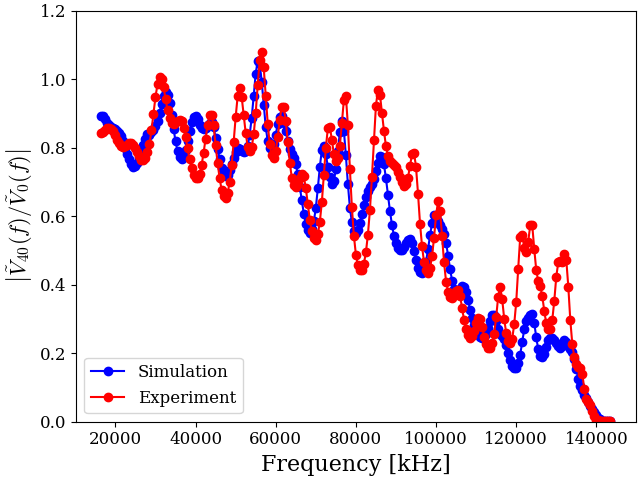
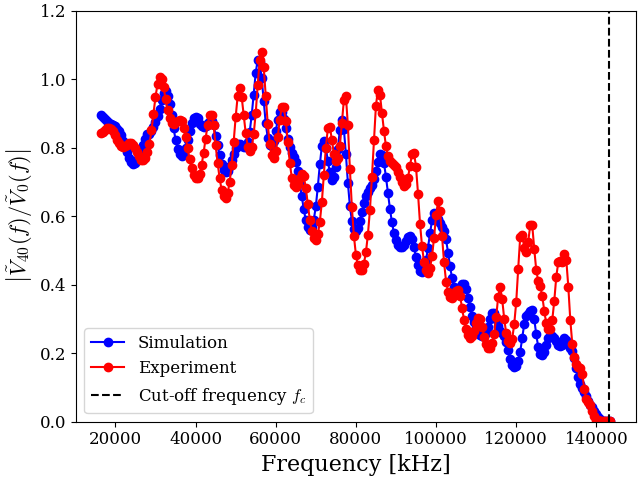
Added visualization changes
- Added shaded region for simulation error (as errors are not independent and must not be represented by error bars)
- Added related configs for upper & lower bounds for dispersion relation
- Updated readme to make latex ODEs work and add more results.
- Added cutoff frequency to necessary plots

diff --git a/scripts/05_dispersion_relation.py b/scripts/05_dispersion_relation.py
@@ -22,9 +22,23 @@ def main():
         required=True,
         help="Path to the master experimental configuration file. Located in configs/experiment",
     )
+    parser.add_argument(
+        "--lower",
+        type=str,
+        required=True,
+        help="Path to the lower bound experiment config",
+    )
+    parser.add_argument(
+        "--upper",
+        type=str,
+        required=True,
+        help="Path to the upper bound experiment config",
+    )
 
     args = parser.parse_args()
     config_path = args.config
+    lower_path = args.lower
+    upper_path = args.upper
 
     exp_parameters = io.load_config(config_path)
 
@@ -70,6 +84,28 @@ def main():
         if k_sim[i] < k_sim[i - 1]:
             k_sim[i:] += (2 * np.pi) / node
 
+    # Find lower bound
+    lower_parameters = io.load_config(lower_path)
+    lower_dir = lower_parameters["paths"]["simulation_dir"]
+    df_results_lower = io.load_parquet_data(lower_dir, prefix="results_")
+    H_node_lower = df_results_lower[f"H_Phase_{node}"].iloc[sim_index]
+    k_sim_lower = -np.unwrap(H_node_lower) / node
+    for i in range(1, len(k_sim_lower)):
+        if k_sim_lower[i] < k_sim_lower[i - 1]:
+            k_sim_lower[i:] += (2 * np.pi) / node
+
+    # Find upper bound
+    upper_parameters = io.load_config(upper_path)
+    upper_dir = upper_parameters["paths"]["simulation_dir"]
+    df_results_upper = io.load_parquet_data(upper_dir, prefix="results_")
+    H_node_upper = df_results_upper[f"H_Phase_{node}"].iloc[sim_index]
+    k_sim_upper = -np.unwrap(H_node_upper) / node
+    for i in range(1, len(k_sim_upper)):
+        if k_sim_upper[i] < k_sim_upper[i - 1]:
+            k_sim_upper[i:] += (2 * np.pi) / node
+
+    dx_sim = np.abs(k_sim_upper - k_sim_lower) / 2
+
     # Plotting logic
     _, ax1 = plt.subplots(**vis.apply_standard_style(1, 1))
     vis.plot_style(
@@ -78,6 +114,7 @@ def main():
         f_sim,
         k_exp,
         f_exp,
+        dx_sim=dx_sim,
         hline_y=f_cutoff,
         hline_label=r"Cut-off frequency $f_c$",
     )

diff --git a/src/utils/visualization.py b/src/utils/visualization.py
@@ -48,6 +48,7 @@ def plot_style(
     y_sim_trend=None,
     x_exp_trend=None,
     y_exp_trend=None,
+    dx_sim=None,
     dy_sim=None,
     dy_exp=None,
     vline_x=None,
@@ -64,7 +65,8 @@ def plot_style(
     - ax: matplotlib ax of the subplot
     - x_sim: simulated x values
     - y_sim: simulated y values
-    - dy_sim: optional errorbars for simulated data
+    - dx_sim: optional errorbars for simulated data along x
+    - dy_sim: optional errorbars for simulated data along y
     - x_exp: experimental x values
     - y_exp: experimental y values
     - dy_exp: optional errorbars for experimental data
@@ -85,12 +87,18 @@ def plot_style(
     handles = []
 
     # Plot Simulation (Always Blue)
-    if dy_sim is not None:
-        sim_line = ax.errorbar(x_sim, y_sim, yerr=dy_sim, fmt="bo-", label="Simulation")
-        handles.append(sim_line)
-    elif x_sim is not None and y_sim is not None:
+    if x_sim is not None and y_sim is not None:
         (sim_line,) = ax.plot(x_sim, y_sim, "bo-", label="Simulation")
         handles.append(sim_line)
+        import numpy as np
+        if dy_sim is not None:
+            y_s = np.asarray(y_sim)
+            dy_s = np.asarray(dy_sim)
+            ax.fill_between(x_sim, y_s - dy_s, y_s + dy_s, color="blue", alpha=0.3)
+        if dx_sim is not None:
+            x_s = np.asarray(x_sim)
+            dx_s = np.asarray(dx_sim)
+            ax.fill_betweenx(y_sim, x_s - dx_s, x_s + dx_s, color="blue", alpha=0.3)
 
     # Plot Experimental (Always Red)
     if dy_exp is not None:

diff --git a/scripts/07_trend_comparison.py b/scripts/07_trend_comparison.py
@@ -60,8 +60,16 @@ def main():
     H_40_sim = df_results_sim["H_Mag_40"].iloc[sim_index]
     coeff_sim = np.polyfit(f_sim, H_40_sim, 1)
 
-    # Plotting logic
-    _, ax1 = plt.subplots(**vis.apply_standard_style(1, 1))
+    # Calculate slopes for all simulations
+    m_sims = []
+    for H_40_sim_i in df_results_sim["H_Mag_40"]:
+        coeff_sim_i = np.polyfit(f_sim, H_40_sim_i, 1)
+        m_sims.append(coeff_sim_i[0])
+
+    # Combined figure with two horizontal subplots
+    fig, (ax1, ax2) = plt.subplots(**vis.apply_standard_style(1, 2))
+
+    # Left panel: transfer function with trends
     vis.plot_style(
         ax1,
         f_sim,
@@ -77,17 +85,7 @@ def main():
     )
     vis.axes_transfer_function(ax1)
 
-    plt.tight_layout()
-    plt.savefig("figures/07_trend_comparison_1.png")
-
-    # Calculate slopes for all simulations
-    m_sims = []
-    for H_40_sim_i in df_results_sim["H_Mag_40"]:
-        coeff_sim_i = np.polyfit(f_sim, H_40_sim_i, 1)
-        m_sims.append(coeff_sim_i[0])
-
-    # Histogram of simulated slopes
-    _, ax2 = plt.subplots(**vis.apply_standard_style(1, 1))
+    # Right panel: histogram of simulated slopes
     ax2.hist(
         m_sims,
         bins=30,
@@ -102,7 +100,7 @@ def main():
     ax2.legend()
 
     plt.tight_layout()
-    plt.savefig("figures/07_trend_comparison_2.png")
+    plt.savefig("figures/07_trend_comparison.png")
 
 
 if __name__ == "__main__":

diff --git a/scripts/10_infer_simulated.py b/scripts/10_infer_simulated.py
@@ -59,6 +59,7 @@ def main():
     num_outputs = 2 * n_circ
     C_0 = circuit_parameters["C"]["value"]
     L_0 = circuit_parameters["L"]["value"]
+    f_cutoff = 1 / np.sqrt(L_0 * C_0) / np.pi
 
     paths = master_cfg["paths"]
     simulation_dir = paths["simulation_dir"]
@@ -226,7 +227,15 @@ def main():
 
         _, ax1 = plt.subplots(**vis.apply_standard_style(1, 1))
 
-        vis.plot_style(ax1, freqs_sim, H_sim_mag, freqs_exp, H_sim_mag_target)
+        vis.plot_style(
+            ax1, 
+            freqs_sim, 
+            H_sim_mag, 
+            freqs_exp, 
+            H_sim_mag_target,
+            vline_x=f_cutoff,
+            vline_label=r"Cut-off frequency $f_c$",
+        )
 
         vis.axes_transfer_function(ax1)
         plt.savefig(out_plot)

diff --git a/scripts/09_infer_parameters.py b/scripts/09_infer_parameters.py
@@ -53,6 +53,7 @@ def main():
     num_outputs = 2 * n_circ
     C_0 = circuit_parameters["C"]["value"]
     L_0 = circuit_parameters["L"]["value"]
+    f_cutoff = 1 / np.sqrt(L_0 * C_0) / np.pi
 
     paths = master_cfg["paths"]
     processed_dir = paths["processed_dir"]
@@ -206,7 +207,15 @@ def main():
 
         _, ax1 = plt.subplots(**vis.apply_standard_style(1, 1))
 
-        vis.plot_style(ax1, freqs_sim, H_sim_mag, freqs_exp, H_exp_mag)
+        vis.plot_style(
+            ax1, 
+            freqs_sim, 
+            H_sim_mag, 
+            freqs_exp, 
+            H_exp_mag,
+            vline_x=f_cutoff,
+            vline_label=r"Cut-off frequency $f_c$",
+        )
 
         vis.axes_transfer_function(ax1)
         plt.savefig(out_plot)

diff --git a/README.md b/README.md
@@ -43,22 +43,25 @@ To address this, we developed a fast forward model using an RK4 ODE solver that 
 
 The discrete $LC$ transmission line consists of $N$ cascaded stages. Taking parasitic resistive elements into account, the transient behavior of the circuit is governed by the following state-space differential equations, linking nodal voltages $V_i$ and branch currents $I_i$:
 
-- **Input Node (0):**
-  ```math
-  C_0 \frac{dV_0}{dt} = \frac{V_{\text{in}} - V_0}{R_{\text{in}}} - I_0
-  ```
-- **Intermediate Nodes ($1 \le i \le N-2$):**
-  ```math
-  C_i \frac{dV_i}{dt} = I_{i-1} - I_i
-  ```
-- **Final Output Node ($N-1$):**
-  ```math
-  C_{N-1} \frac{dV_{N-1}}{dt} = I_{N-2} - \frac{V_{N-1}}{R_{\text{out}}}
-  ```
-- **Inductive Branches ($0 \le i \le N-2$):**
-  ```math
-  L_i \frac{dI_i}{dt} = V_i - V_{i+1} - R_{L,\text{AC}}(f) \, I_i
-  ```
+**Input Node (0):**
+```math
+C_0 \frac{dV_0}{dt} = \frac{V_{\text{in}} - V_0}{R_{\text{in}}} - I_0
+```
+
+**Intermediate Nodes ($1 \le i \le N-2$):**
+```math
+C_i \frac{dV_i}{dt} = I_{i-1} - I_i
+```
+
+**Final Output Node ($N-1$):**
+```math
+C_{N-1} \frac{dV_{N-1}}{dt} = I_{N-2} - \frac{V_{N-1}}{R_{\text{out}}}
+```
+
+**Inductive Branches ($0 \le i \le N-2$):**
+```math
+L_i \frac{dI_i}{dt} = V_i - V_{i+1} - R_{L,\text{AC}}(f) \, I_i
+```
 
 **Frequency-Dependent AC Losses:**
 A critical factor in modeling real transmission lines is that the parasitic series resistance $R_L$ is not constant. Due to high-frequency skin and proximity effects, it scales dynamically. We model this behavior using a power-rule:
@@ -96,4 +99,9 @@ laboratory-waves/
 <p align="center">
   <img src="figures/10_infer_simulated_2d.png" width="60%" alt="Inference Validation" /><br>
   <em>Transfer function predicted by physical parameters obtained through the 2D CNN inference model, compared against the target ground truth.</em>
+</p>
+
+<p align="center">
+  <img src="figures/07_trend_comparison.png" width="100%" alt="Trend Comparison" /><br>
+  <em>Transfer function experimental slope comparison against multiple Monte Carlo simulated variations.</em>
 </p>
